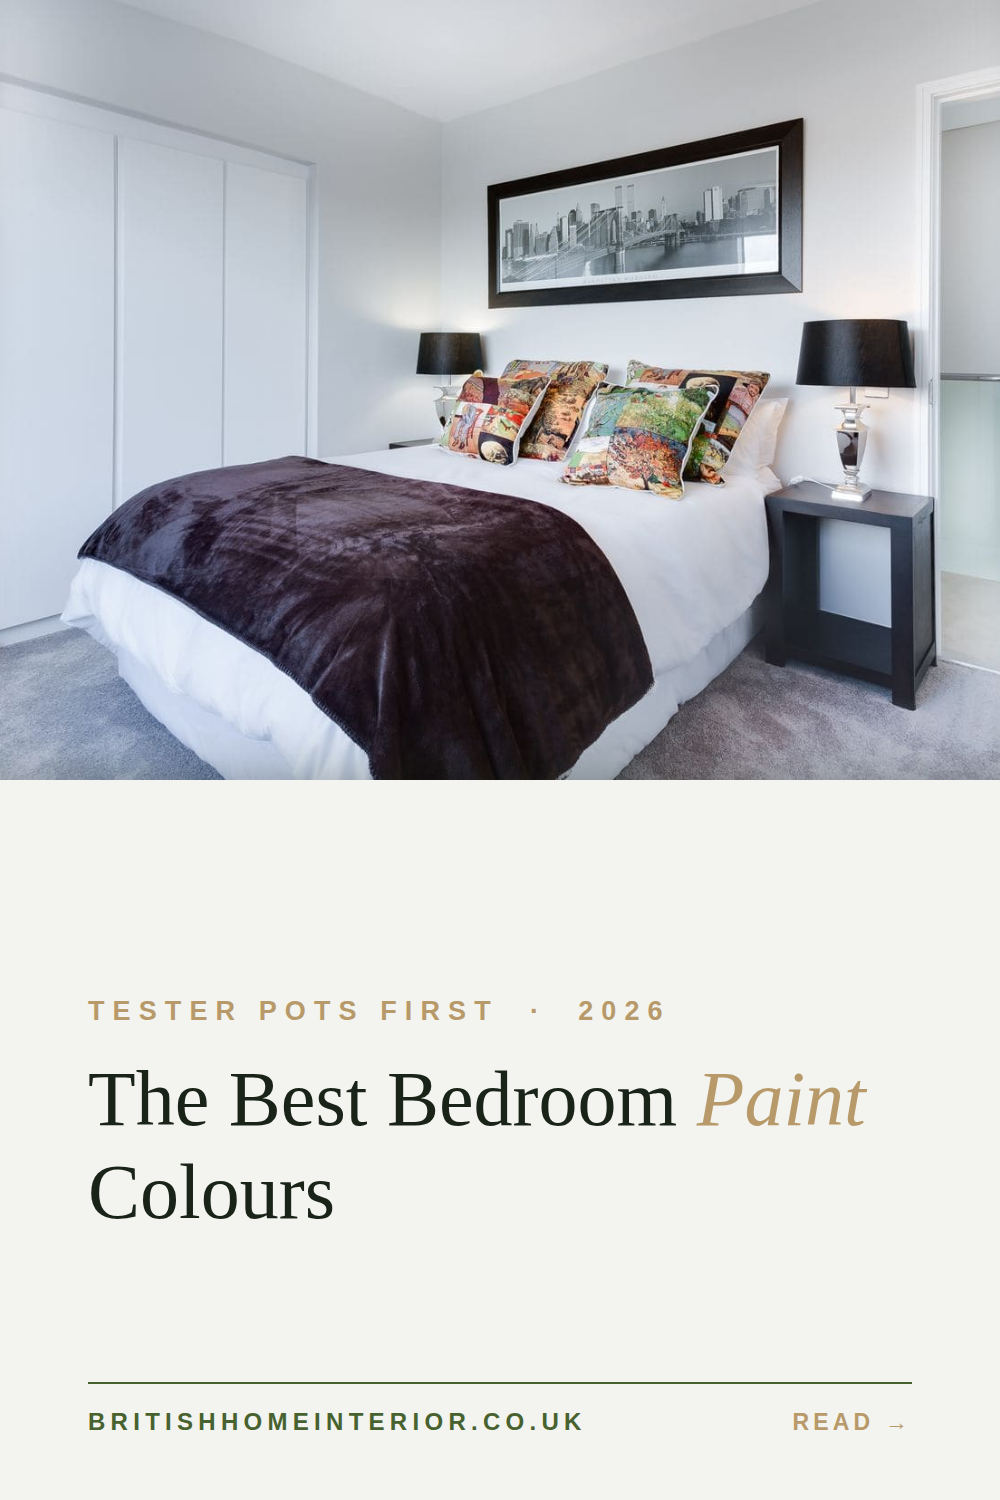
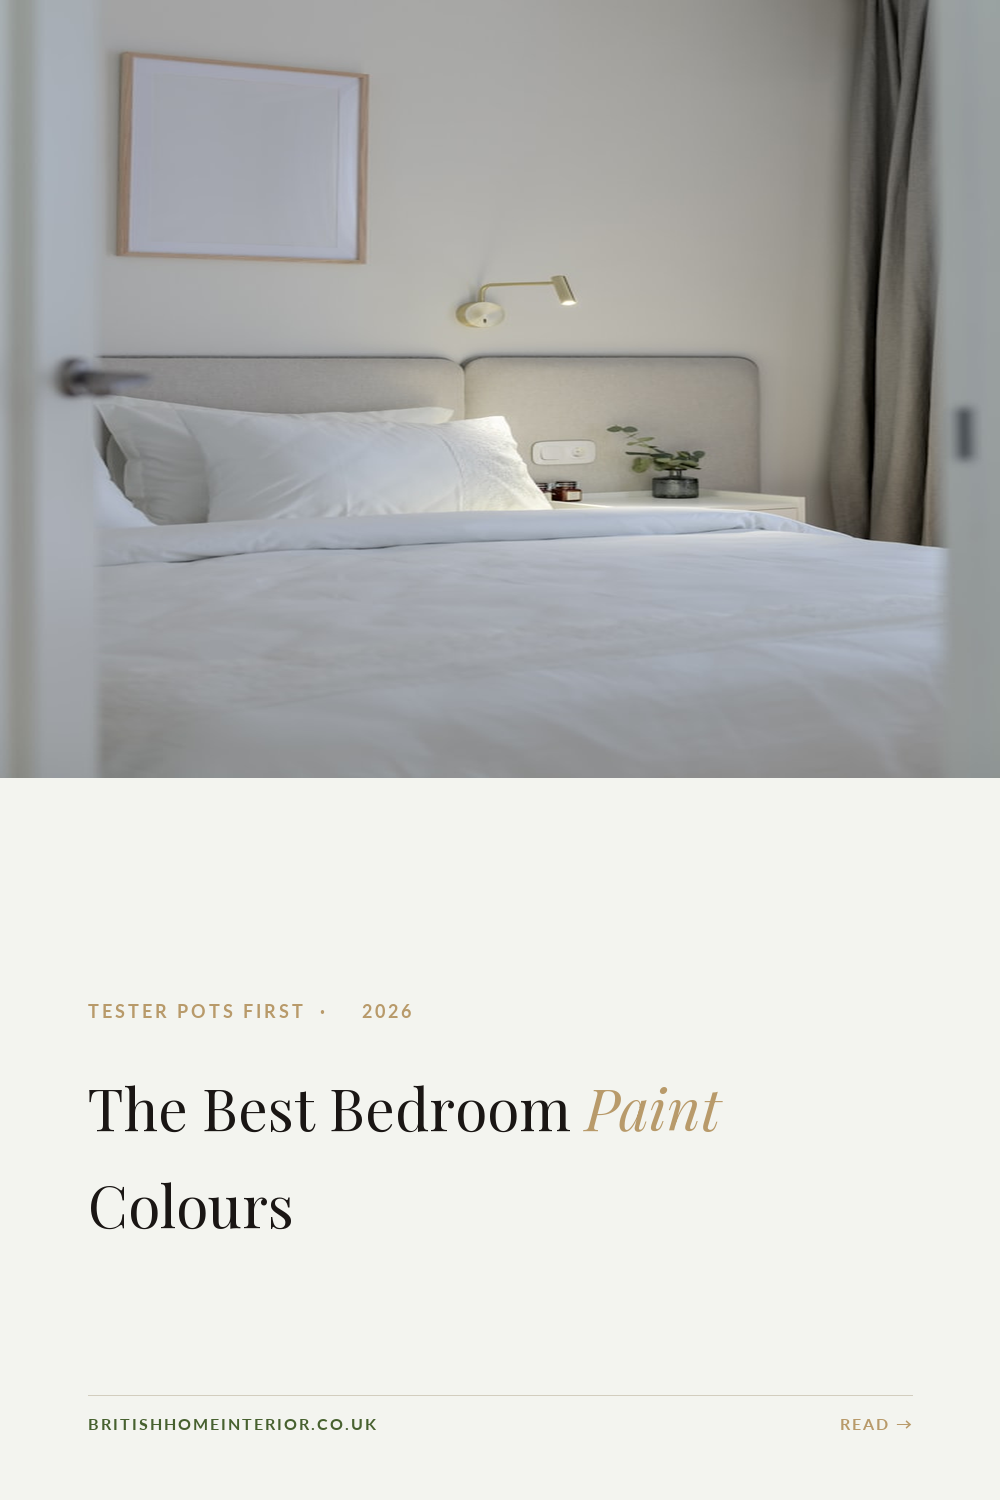
Fix NYC skyline photo across all 3 bedroom-colour-ideas pin variants
Replaced the Brooklyn Bridge/Manhattan photo (critical QA issue #1)
with a neutral, CC0-licensed bedroom photo -- no identifiable
landmarks. Rebuilt all three layouts (full-bleed, top-photo/cream-
panel, and green-bordered-frame) to match each variant's exact
existing text positioning and typography rather than just swapping
the background.

diff --git a/pinterest-pins/PIN-QA-FIXES.md b/pinterest-pins/PIN-QA-FIXES.md
@@ -8,7 +8,7 @@ Full pass: all 30 pin sets checked (the "A" variant of each), same method as the
 
 ### 1. `bedroom-colour-ideas-A` — framed photo shows the Brooklyn Bridge / Manhattan skyline
 The bed's headboard wall has a large framed print unmistakably showing the Brooklyn Bridge and Manhattan skyline (New York). This pin is titled "Bedroom Colour Ideas UK" — a direct, visible contradiction. Same category of issue as Canada's Denver Broncos stadium pin.
-**Fix:** swap the photo for a UK-appropriate bedroom, or at minimum one with no identifiable non-UK landmark art.
+**Status (2026-07-26): FIXED.** All three variants (A/B/C) shared this same NYC photo -- confirmed and replaced across all three, rebuilt to match each layout's exact text/positioning (full-bleed scrim, top-photo cream-panel, and dark-green bordered-frame layouts). New source photo: neutral bedroom, blank picture frame, no identifiable landmarks, CC0-licensed.
 
 ### 2. `cosy-bedroom-ideas-A` — this is a hotel room, not a home
 Visible tells: a coffee/tea amenities tray on a stand, a wall-mounted air conditioning unit, a laptop open on a small round table — classic hotel room staging, not someone's actual bedroom. The blog's whole positioning is "real homes, real budgets" — a hotel room directly undercuts that.
